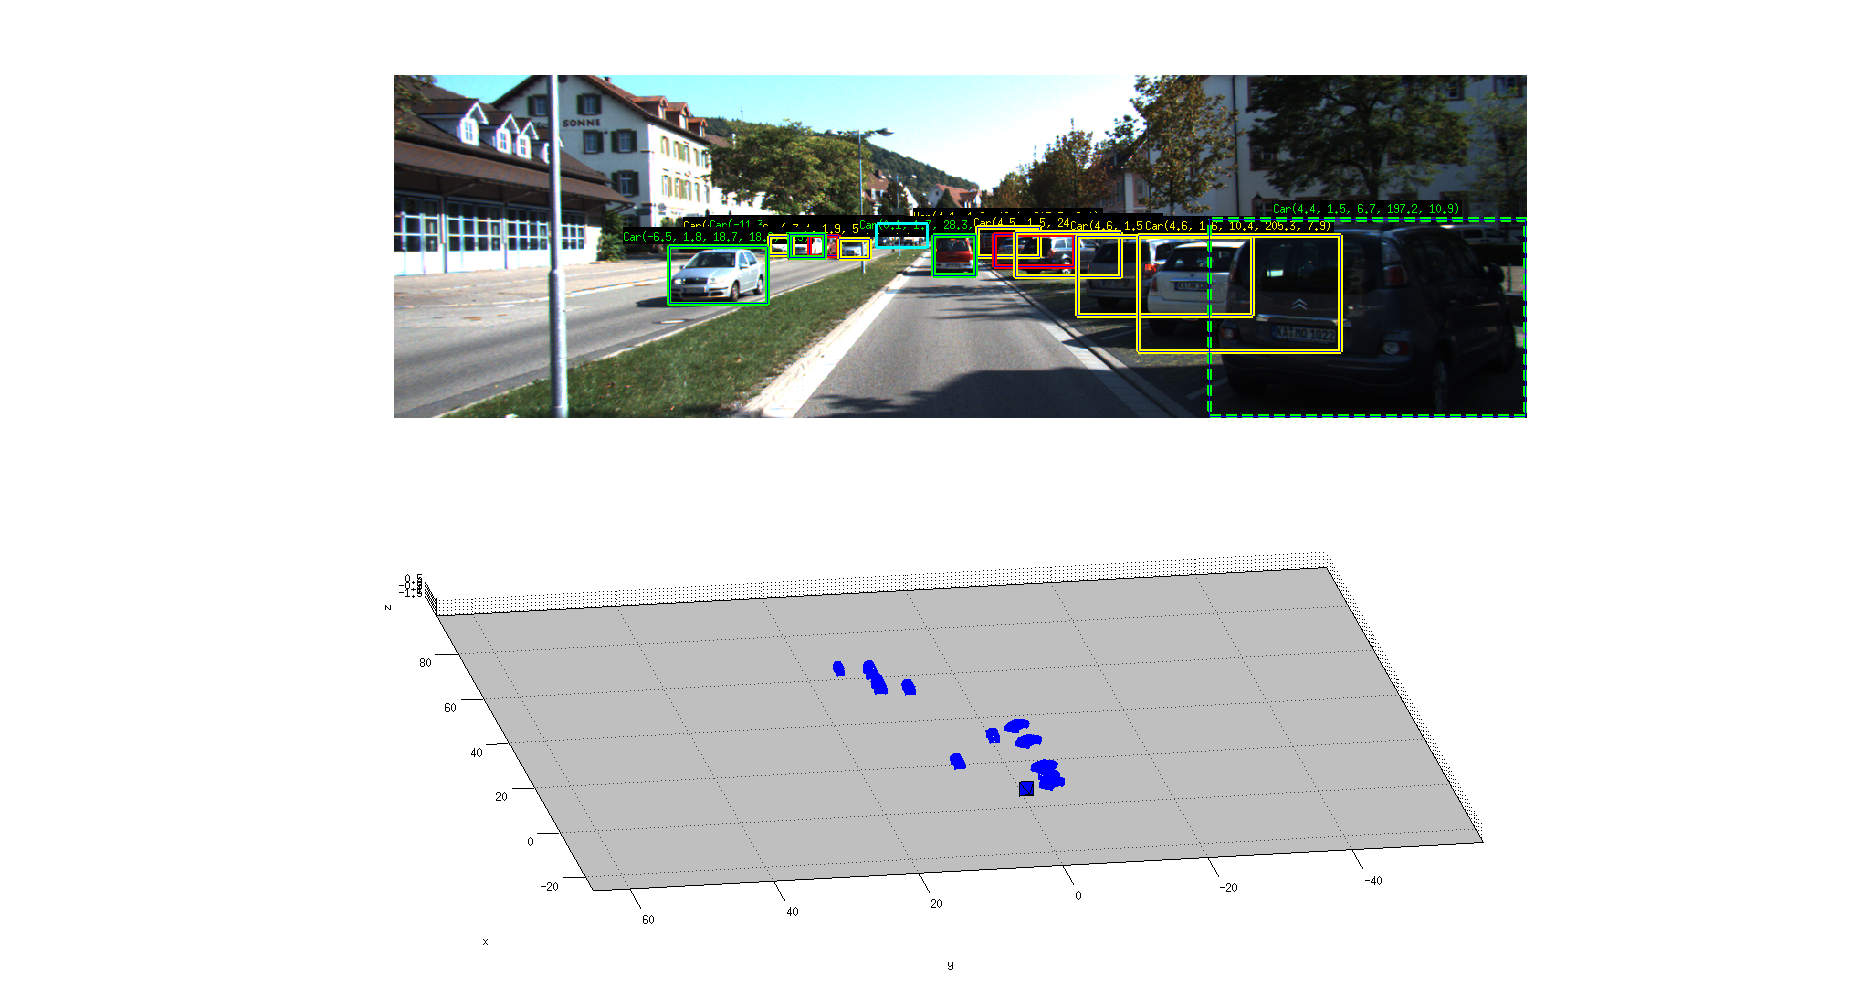
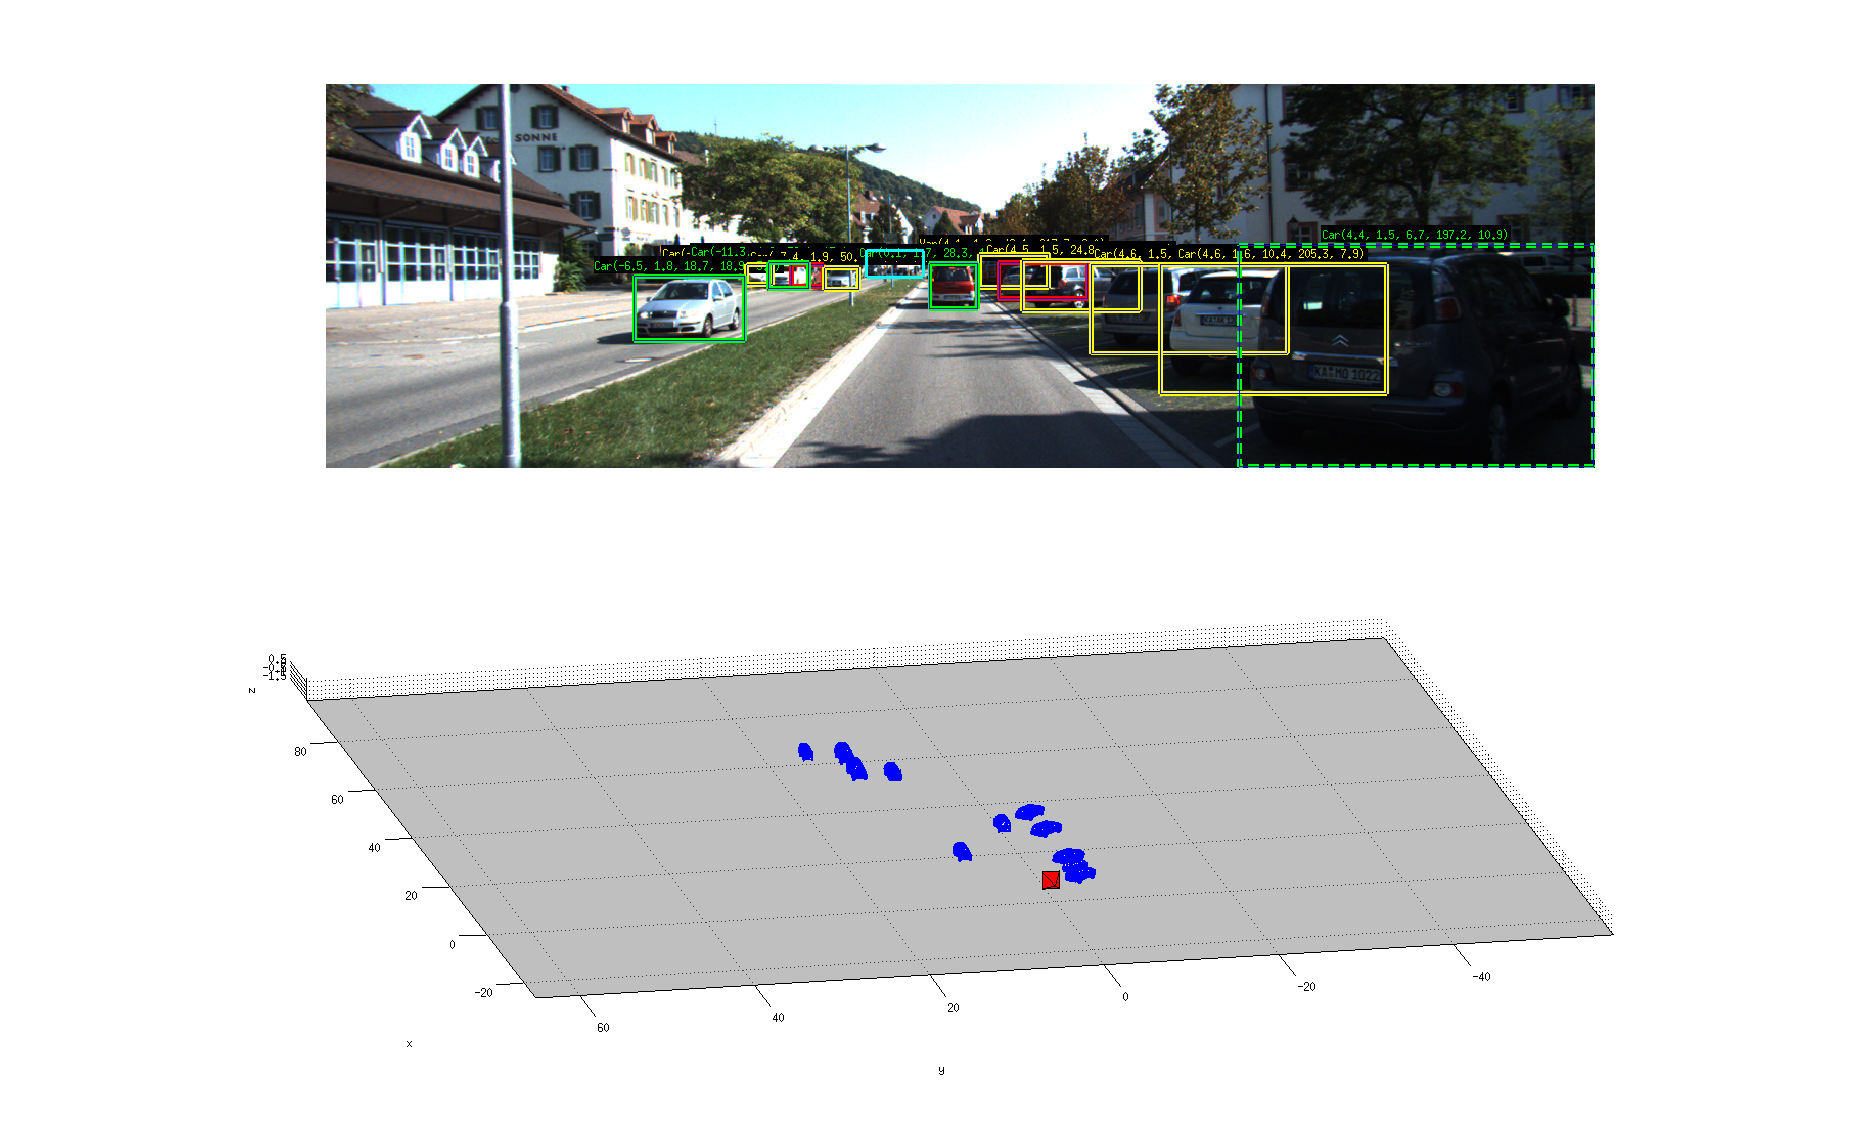
use red for camera in 3D

diff --git a/KITTI/draw_camera.m b/KITTI/draw_camera.m
@@ -13,5 +13,5 @@ CameraVertex(5,:) = [ 1 -1  -2.5];
 CameraVertex = ([R_c2w T_c2w]*[(CameraVertex');ones(1,5)])';
 IndSetCamera = {[1 2 3 1] [1 4 2 1] [1 5 4 1] [1 5 3 1] [2 3 5 4 2]};
 for iter_indset = 1:length(IndSetCamera)
-    patch('Faces', IndSetCamera{iter_indset}, 'Vertices', CameraVertex, 'FaceColor', 'b', 'FaceAlpha', 1);
+    patch('Faces', IndSetCamera{iter_indset}, 'Vertices', CameraVertex, 'FaceColor', 'r', 'FaceAlpha', 1);
 end
